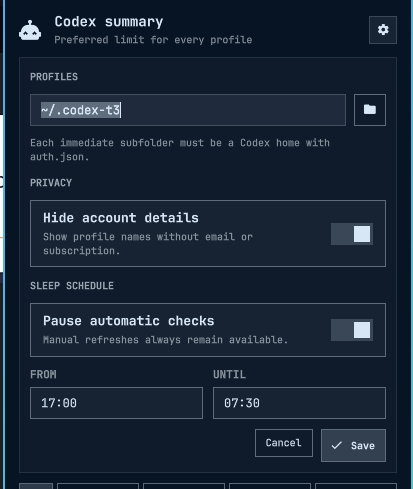
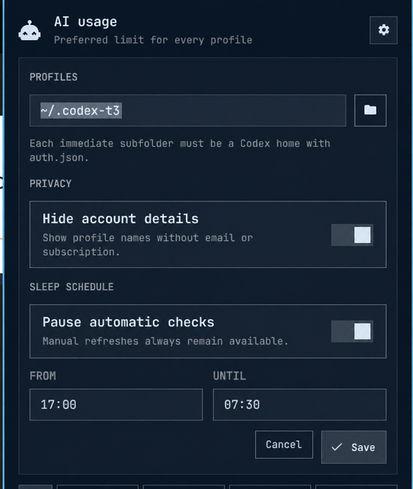
Rename plugin to AI Usage

diff --git a/Panel.qml b/Panel.qml
@@ -7,7 +7,7 @@ import qs.Ui
 
 Panel {
   id: root
-  moduleName: "codex-status"
+  moduleName: "ai-usage"
   ipcTarget: ""
 
   readonly property color foreground: bar ? bar.foreground : Color.foreground
@@ -18,7 +18,7 @@ Panel {
   readonly property string fontFamily: bar ? bar.fontFamily : Style.font.family
   readonly property string home: Quickshell.env("HOME") || ""
   readonly property string cachePath: (Quickshell.env("XDG_CACHE_HOME") || home + "/.cache")
-    + "/omarchy/codex-status/status.json"
+    + "/omarchy/ai-usage/status.json"
   readonly property string collectorPath: Qt.resolvedUrl("collector.py").toString().replace(/^file:\/\//, "")
   readonly property string folderPickerPath: Qt.resolvedUrl("folder_picker.py").toString().replace(/^file:\/\//, "")
 
@@ -210,7 +210,7 @@ Panel {
       nowMs = Date.now()
       if (selectedTabIndex > accounts.length) selectedTabIndex = accounts.length
     } catch (error) {
-      console.warn("codex-status", "Ignoring invalid cache", error)
+      console.warn("ai-usage", "Ignoring invalid cache", error)
     }
   }
 
@@ -359,7 +359,7 @@ Panel {
 
     stderr: StdioCollector {
       waitForEnd: true
-      onStreamFinished: if (text.trim() !== "") console.warn("codex-status folder picker", text.trim())
+      onStreamFinished: if (text.trim() !== "") console.warn("ai-usage folder picker", text.trim())
     }
   }
 
@@ -370,7 +370,7 @@ Panel {
 
     onExited: function(exitCode) {
       cacheFile.reload()
-      if (exitCode !== 0) console.warn("codex-status", "Collector exited with", exitCode)
+      if (exitCode !== 0) console.warn("ai-usage", "Collector exited with", exitCode)
       if (root.refreshQueued) {
         var force = root.refreshQueuedForce
         root.refreshQueued = false
@@ -381,7 +381,7 @@ Panel {
 
     stderr: StdioCollector {
       waitForEnd: true
-      onStreamFinished: if (text.trim() !== "") console.warn("codex-status", text.trim())
+      onStreamFinished: if (text.trim() !== "") console.warn("ai-usage", text.trim())
     }
   }
 
@@ -396,8 +396,8 @@ Panel {
     text: ""
     active: root.alarming
     tooltipText: root.sleepModeActive
-      ? "Codex usage · Sleep mode · not fetching"
-      : "Codex usage · " + root.lastFetchText()
+      ? "AI usage · Sleep mode · not fetching"
+      : "AI usage · " + root.lastFetchText()
     onPressed: function(buttonCode) {
       if (buttonCode === Qt.RightButton || buttonCode === Qt.MiddleButton) root.refreshNow(true)
       else root.toggle()
@@ -464,7 +464,7 @@ Panel {
               Text {
                 textFormat: Text.PlainText
                 text: root.summaryView
-                  ? "Codex summary"
+                  ? "AI usage"
                   : String(root.account.label || root.account.id || "Codex")
                 color: root.foreground
                 font.family: root.fontFamily

diff --git a/collector.py b/collector.py
@@ -1,5 +1,5 @@
 #!/usr/bin/env python3
-"""Refresh and print the cache used by the Codex Status shell plugin."""
+"""Refresh and print Codex data for the AI Usage shell plugin."""
 
 from __future__ import annotations
 
@@ -21,10 +21,10 @@ from typing import Any
 
 SCHEMA_VERSION = 1
 RPC_TIMEOUT_SECONDS = 12
-PLUGIN_ID = "codex-status"
+PLUGIN_ID = "ai-usage"
 DEFAULT_PROFILE_ROOT = Path.home() / ".codex-profiles"
 SHELL_CONFIG_FILE = Path.home() / ".config" / "omarchy" / "shell.json"
-CACHE_ROOT = Path(os.environ.get("XDG_CACHE_HOME") or Path.home() / ".cache") / "omarchy" / "codex-status"
+CACHE_ROOT = Path(os.environ.get("XDG_CACHE_HOME") or Path.home() / ".cache") / "omarchy" / "ai-usage"
 CACHE_FILE = CACHE_ROOT / "status.json"
 LOCK_FILE = CACHE_ROOT / "refresh.lock"
 
@@ -257,8 +257,8 @@ def probe_profile(profile_home: Path, codex_command: str, include_identity: bool
             "initialize",
             {
                 "clientInfo": {
-                    "name": "omarchy_codex_status",
-                    "title": "Omarchy Codex Status",
+                    "name": "omarchy_ai_usage",
+                    "title": "Omarchy AI Usage",
                     "version": "1.0.0",
                 }
             },
@@ -419,7 +419,7 @@ def usage_bar(remaining: int, width: int = 20) -> str:
 def print_payload(payload: dict[str, Any], show_identity: bool = False) -> None:
     fetched_at_ms = int(payload.get("fetchedAtMs") or 0)
     fetched = datetime.fromtimestamp(fetched_at_ms / 1000).astimezone() if fetched_at_ms else None
-    print("\n  CODEX USAGE DASHBOARD")
+    print("\n  AI USAGE DASHBOARD")
     if fetched:
         print(f"  Last fetched {fetched:%A, %d %B %Y  %H:%M:%S}\n")
     else:
@@ -489,7 +489,7 @@ def main() -> int:
             else refresh_cache(profile_root, force=args.force, include_identity=args.show_identity)
         )
     except Exception as exc:
-        print(f"codex-status: refresh failed: {exc}", file=sys.stderr)
+        print(f"ai-usage: refresh failed: {exc}", file=sys.stderr)
         payload = read_cache()
         if not args.print_result:
             return 1

diff --git a/docs/how-it-works.md b/docs/how-it-works.md
@@ -1,12 +1,13 @@
-# How Codex Status works
+# How AI Usage works
 
 <p align="center">
   <img src="screenshots/summary.png" width="405" alt="Summary view showing the preferred limit for four Codex profiles">
   <img src="screenshots/details.png" width="405" alt="Profile view showing five-hour and weekly limits without account details">
 </p>
 
-Codex Status has two parts. `collector.py` fetches usage data and writes a
-small cache file. `Panel.qml` reads that file and renders the bar popup.
+Version 1.0 has one provider integration: Codex. `collector.py` fetches its
+usage data and writes a small cache file. `Panel.qml` reads that file and
+renders the bar popup.
 
 ## Fetching usage
 
@@ -30,7 +31,7 @@ copy `auth.json`.
 The collector writes display data to:
 
 ```text
-~/.cache/omarchy/codex-status/status.json
+~/.cache/omarchy/ai-usage/status.json
 ```
 
 `$XDG_CACHE_HOME` replaces `~/.cache` when it is set. The cache directory uses
@@ -50,7 +51,7 @@ finished.
 Open the popup and select the gear button.
 
 <p align="center">
-  <img src="screenshots/settings.png" width="413" alt="Codex Status settings for profiles, privacy, and the sleep schedule">
+  <img src="screenshots/settings.png" width="413" alt="AI Usage settings for profiles, privacy, and the sleep schedule">
 </p>
 
 The settings panel controls:
@@ -85,19 +86,19 @@ fetch immediately.
 Print the cached result without fetching:
 
 ```bash
-~/.config/omarchy/plugins/codex-status/collector.py --cached --print
+~/.config/omarchy/plugins/ai-usage/collector.py --cached --print
 ```
 
 Fetch now using the configured profiles folder:
 
 ```bash
-~/.config/omarchy/plugins/codex-status/collector.py --force --print
+~/.config/omarchy/plugins/ai-usage/collector.py --force --print
 ```
 
 Use another profiles folder for one run:
 
 ```bash
-~/.config/omarchy/plugins/codex-status/collector.py \
+~/.config/omarchy/plugins/ai-usage/collector.py \
   --profiles-root /path/to/profiles \
   --force \
   --print

diff --git a/README.md b/README.md
@@ -1,18 +1,19 @@
-# Codex Status
+# AI Usage
 
-See the Codex usage left across your local profiles from the Omarchy bar.
+See the AI usage left across your local profiles from the Omarchy bar.
 
 <p align="center">
-  <img src="preview.png" width="440" alt="Codex Status summary showing usage for four profiles">
+  <img src="preview.png" width="440" alt="AI Usage summary showing usage for four profiles">
 </p>
 
-Codex Status checks each profile through the installed Codex CLI and keeps the
+Version 1.0 supports Codex profiles. Claude, Kimi, and Grok are not supported
+yet. AI Usage checks each profile through the installed Codex CLI and keeps the
 latest display data in a local cache. The popup opens from that cache, so it
 does not wait for a network request.
 
 ## Install
 
-Codex Status is built for Omarchy Quattro and its shell plugin system. It also
+AI Usage is built for Omarchy Quattro and its shell plugin system. It also
 needs Python 3, the Codex CLI, and at least one signed-in Codex profile. The
 folder picker uses GTK 4 and PyGObject.
 
@@ -21,7 +22,7 @@ Once the plugin is listed, its page on
 command. To install it directly from this repository, run:
 
 ```bash
-omarchy plugin add https://github.com/Cees-Kettenis/omarchy-codex-status.git --enable
+omarchy plugin add https://github.com/Cees-Kettenis/omarchy-ai-usage.git --enable
 ```
 
 Omarchy shows the source URL, asks for confirmation, validates the manifest,
@@ -31,8 +32,8 @@ and does not need `sudo`.
 ## Update or remove
 
 ```bash
-omarchy plugin update codex-status
-omarchy plugin remove codex-status
+omarchy plugin update ai-usage
+omarchy plugin remove ai-usage
 ```
 
 ## What you get

diff --git a/SECURITY.md b/SECURITY.md
@@ -1,6 +1,6 @@
 # Security and privacy
 
-Codex Status runs as the current desktop user. Omarchy plugins are not
+AI Usage runs as the current desktop user. Omarchy plugins are not
 sandboxed, so review the source before installing it.
 
 The collector never parses or copies `auth.json`. It checks for the file and
@@ -12,7 +12,7 @@ to its cache. Turning privacy mode off allows those fields to be requested and
 cached.
 
 Runtime data is written outside the plugin repository under
-`$XDG_CACHE_HOME/omarchy/codex-status/`, or `~/.cache/omarchy/codex-status/`
+`$XDG_CACHE_HOME/omarchy/ai-usage/`, or `~/.cache/omarchy/ai-usage/`
 when `XDG_CACHE_HOME` is unset. The cache directory uses mode `0700`, and the
 status file uses mode `0600`.
 

diff --git a/CHANGELOG.md b/CHANGELOG.md
@@ -4,8 +4,8 @@
 
 ### Added
 
-- Added an Omarchy bar widget for viewing cached Codex usage across multiple
-  local profiles.
+- Added AI Usage, an Omarchy bar widget for viewing cached Codex usage across
+  multiple local profiles.
 - Added a summary that prefers the 5-hour limit and falls back to the weekly
   limit for profiles without a 5-hour window.
 - Added profile views for all available limits, reset times, credits, and
